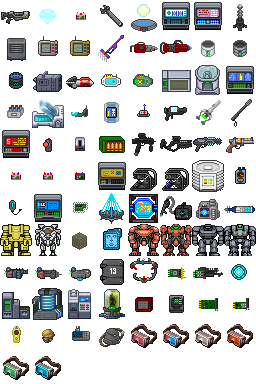
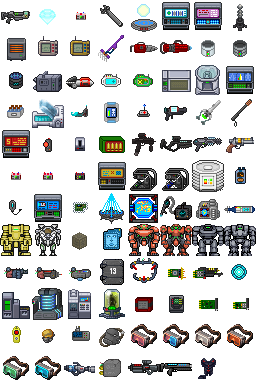
Added special operation tech branch

Changed region(s): [[0.25, 0.9375, 0.75, 1.0], [0.7812, 0.9375, 0.8438, 1.0]]

diff --git a/nano/css/shared.css b/nano/css/shared.css
@@ -776,7 +776,11 @@ th.cargo {
 .sciTechTreeIcon.icon-thermalhud { background-position: -224px -320px;}
 .sciTechTreeIcon.icon-4thtier { background-position: -32px -352px;}
 
-
+.sciTechTreeIcon.icon-medigun {	background-position: -64px -352px;}
+.sciTechTreeIcon.icon-rigstealth { background-position: -96px -352px;}
+.sciTechTreeIcon.icon-sniperrifle { background-position: -128px -352px;}
+.sciTechTreeIcon.icon-pulserifle { background-position: -160px -352px;}
+.sciTechTreeIcon.icon-dsarmor { background-position: -192px -352px;}
 
 .sciMenuButton {
     width: 300px;
